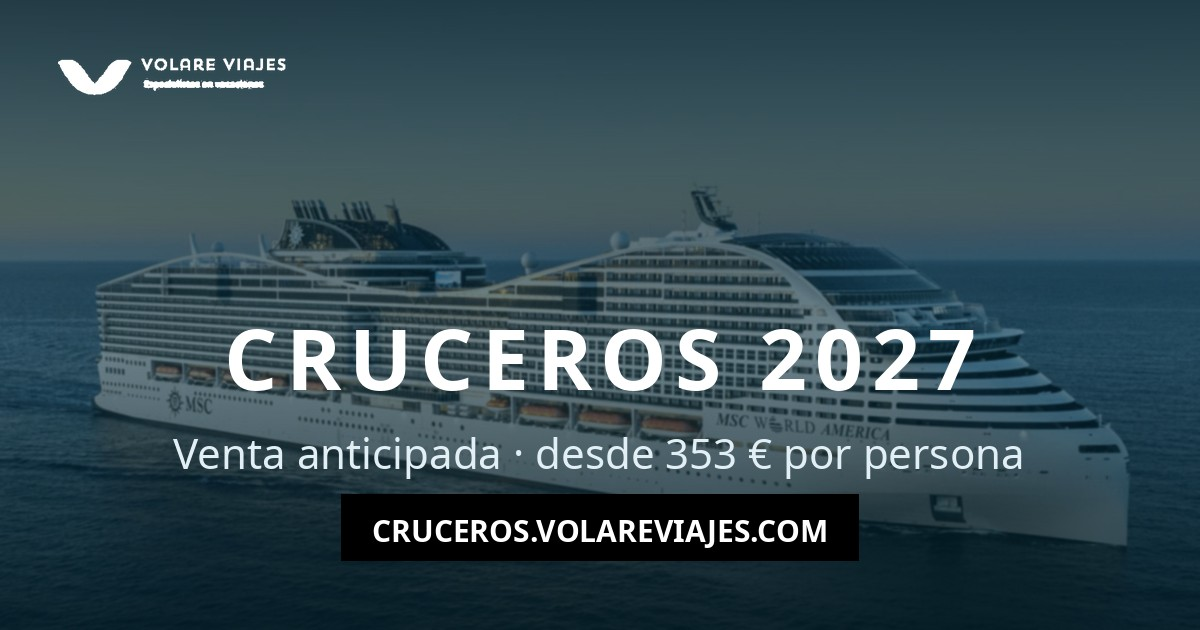
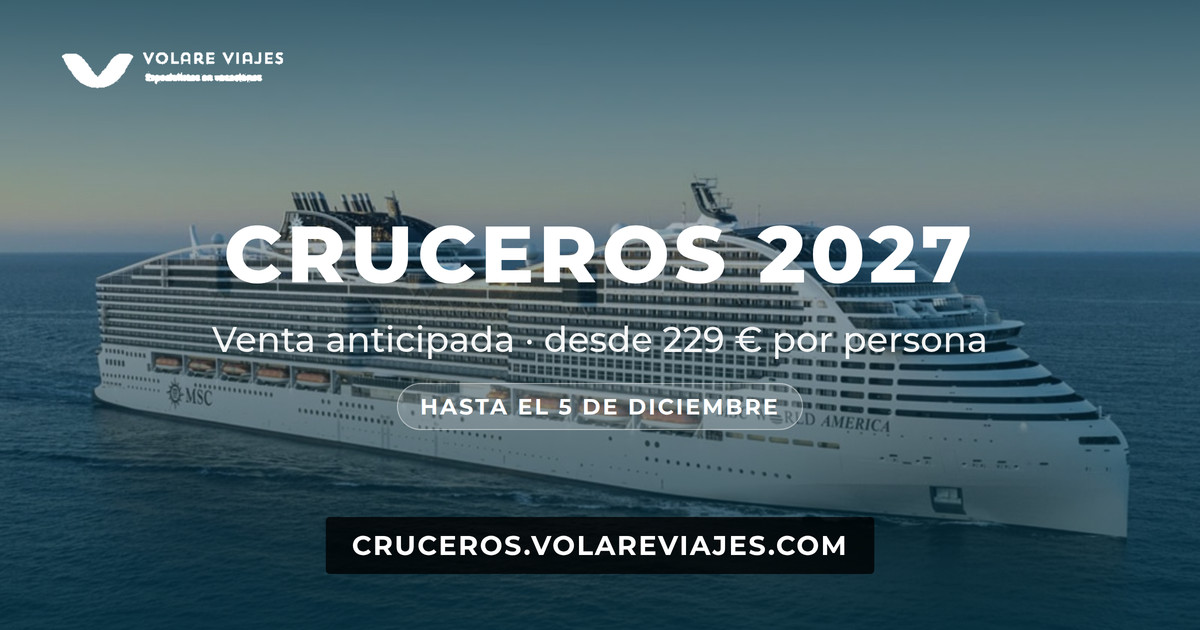
Añadir el crucero La música del mar (desde 229 €) y la fecha límite del 5 de diciembre

diff --git a/index.html b/index.html
@@ -35,10 +35,10 @@
       gtag("config", "G-KN19RN3MBS");
     </script>
 
-    <title>Cruceros 2027 desde 353 € | Venta anticipada — Volare Viajes</title>
+    <title>Cruceros 2027 desde 229 € | Venta anticipada — Volare Viajes</title>
     <meta
       name="description"
-      content="Venta anticipada de cruceros 2027: Mediterráneo, Canarias, Caribe y Norte de Europa desde 353 € por persona. Elige barco y ruta y consulta fechas y precios en el buscador."
+      content="Venta anticipada de cruceros 2027 hasta el 5 de diciembre: Mediterráneo, Canarias, Caribe y Norte de Europa desde 229 € por persona. Consulta fechas, barcos y precios en el buscador."
     />
     <meta
       name="keywords"
@@ -53,20 +53,20 @@
     <meta property="og:locale" content="es_ES" />
     <meta
       property="og:title"
-      content="Cruceros 2027 desde 353 € · Venta anticipada — Volare Viajes"
+      content="Cruceros 2027 desde 229 € · Venta anticipada — Volare Viajes"
     />
     <meta
       property="og:description"
-      content="Cruceros 2027 por el Mediterráneo, Canarias, el Caribe y el Norte de Europa desde 353 € por persona. Venta anticipada con asesoramiento personalizado 24/7."
+      content="Cruceros 2027 por el Mediterráneo, Canarias, el Caribe y el Norte de Europa desde 229 € por persona. Venta anticipada hasta el 5 de diciembre, con asesoramiento personalizado 24/7."
     />
     <meta name="twitter:card" content="summary_large_image" />
     <meta
       name="twitter:title"
-      content="Cruceros 2027 desde 353 € · Venta anticipada — Volare Viajes"
+      content="Cruceros 2027 desde 229 € · Venta anticipada — Volare Viajes"
     />
     <meta
       name="twitter:description"
-      content="Cruceros 2027 desde 353 € por persona. Venta anticipada con asesoramiento personalizado."
+      content="Cruceros 2027 desde 229 € por persona, hasta el 5 de diciembre. Venta anticipada con asesoramiento personalizado."
     />
 
     <link rel="icon" type="image/svg+xml" href="favicon.svg" />
@@ -82,7 +82,7 @@
     <meta property="og:image" content="https://cruceros.volareviajes.com/og-image.jpg" />
     <meta property="og:image:width" content="1200" />
     <meta property="og:image:height" content="630" />
-    <meta property="og:image:alt" content="Cruceros 2027 de Volare Viajes: venta anticipada desde 353 euros" />
+    <meta property="og:image:alt" content="Cruceros 2027 de Volare Viajes: venta anticipada desde 229 euros, hasta el 5 de diciembre" />
     <meta name="twitter:image" content="https://cruceros.volareviajes.com/og-image.jpg" />
     <script type="application/ld+json">
       {
@@ -198,7 +198,7 @@
               class="reveal mb-6 inline-flex items-center gap-2 rounded-full border border-white/25 bg-white/10 px-4 py-1.5 text-[11px] font-semibold uppercase tracking-[0.18em] text-white backdrop-blur"
             >
               <span class="h-1.5 w-1.5 rounded-full bg-teal-light" aria-hidden="true"></span>
-              Venta anticipada 2027
+              Venta anticipada 2027 · hasta el 5 de diciembre
             </p>
 
             <h1 class="display reveal text-white text-[clamp(2.25rem,5.4vw,4rem)]" data-delay="1">
@@ -211,7 +211,7 @@
               data-delay="2"
             >
               Cruceros 2027 por el Mediterráneo, las Islas Canarias, el Caribe y el Norte de
-              Europa <strong class="font-semibold text-white">desde 353 € por persona</strong>. Más
+              Europa <strong class="font-semibold text-white">desde 229 € por persona</strong>. Más
               de 25 años eligiendo barco, ruta y camarote para cada viajero: te decimos cuál encaja
               contigo antes de que reserves.
             </p>
@@ -246,6 +246,12 @@
               </a>
             </div>
 
+            <p class="reveal mt-8 max-w-[34rem] text-[0.9375rem] leading-relaxed text-white/85" data-delay="4">
+              <strong class="font-semibold text-white">La venta anticipada termina el 5 de diciembre.</strong>
+              Descuento de hasta 300 € reservando antes del 4 de noviembre y cambio de fecha sin coste
+              reservando antes del 10 de diciembre.
+            </p>
+
             <dl
               class="reveal mt-14 grid max-w-[38rem] grid-cols-2 gap-x-8 gap-y-6 border-t border-white/20 pt-8 sm:grid-cols-3"
               data-delay="4"
@@ -254,7 +260,7 @@
                 <dt class="text-[11px] font-semibold uppercase tracking-[0.16em] text-white/55">
                   Precios desde
                 </dt>
-                <dd class="price mt-1 text-2xl text-white">353 €</dd>
+                <dd class="price mt-1 text-2xl text-white">229 €</dd>
               </div>
               <div>
                 <dt class="text-[11px] font-semibold uppercase tracking-[0.16em] text-white/55">
@@ -311,7 +317,7 @@
           <div class="max-w-[46rem]">
             <p class="eyebrow">01 — Cruceros destacados</p>
             <h2 class="rule-title display mt-4 text-[clamp(1.75rem,3.4vw,2.6rem)]">
-              Seis cruceros que ya tienen fechas para 2027
+              Siete cruceros que ya tienen fechas para 2027
             </h2>
             <p class="mt-6 text-muted">
               Barcos y rutas que hemos seleccionado por su relación entre precio, itinerario y
@@ -321,6 +327,75 @@
           </div>
 
           <div class="mt-14 flex flex-col gap-10">
+            <!-- • La música del mar · la salida más económica de la venta anticipada -->
+            <article
+              class="card-cruise reveal grid overflow-hidden rounded-2xl border border-line bg-white shadow-card lg:grid-cols-[minmax(0,0.85fr)_minmax(0,1fr)]"
+            >
+              <img
+                src="img/crucero-costa-toscana.jpg"
+                alt="Barco Costa Toscana navegando por el Mediterráneo"
+                width="1200"
+                height="788"
+                loading="lazy"
+                class="h-56 w-full object-cover lg:h-full"
+              />
+              <div class="p-7 md:p-9">
+                <p class="label">Costa Cruceros · Costa Toscana · desde Barcelona</p>
+                <h3 class="display mt-2 text-2xl md:text-[1.75rem]">
+                  La música del mar
+                </h3>
+
+                <dl class="mt-6 grid grid-cols-2 gap-x-6 gap-y-4 sm:grid-cols-4">
+                  <div>
+                    <dt class="label">Noches</dt>
+                    <dd class="mt-1 text-sm font-semibold">8 días</dd>
+                  </div>
+                  <div>
+                    <dt class="label">Embarque</dt>
+                    <dd class="mt-1 text-sm font-semibold">Barcelona</dd>
+                  </div>
+                  <div>
+                    <dt class="label">Salidas · lunes</dt>
+                    <dd class="mt-1 text-sm font-semibold">Nov 26 – feb 27</dd>
+                  </div>
+                  <div>
+                    <dt class="label">Escalas</dt>
+                    <dd class="mt-1 text-sm font-semibold">5</dd>
+                  </div>
+                </dl>
+
+                <ol class="route mt-6 border-t border-line pt-5">
+                  <li class="is-embark">Barcelona</li>
+                  <li>Palma de Mallorca</li>
+                  <li>Palermo</li>
+                  <li>Roma</li>
+                  <li>Savona</li>
+                  <li>Marsella</li>
+                  <li>Barcelona</li>
+                </ol>
+
+                <div class="mt-7 flex flex-wrap items-end justify-between gap-4">
+                  <p class="text-sm text-muted">
+                    Desde
+                    <span class="price ml-1 text-2xl text-ink">229 €</span>
+                    <span class="ml-1 text-xs text-muted">/ persona</span>
+                  </p>
+                  <a
+                    href="https://www.volareviajes.com/cruisesshowcase/cruise/index/931917?utm_source=landing_cruceros&utm_medium=web&utm_campaign=cruceros2027_ventaanticipada&utm_content=ficha-la-musica-del-mar"
+                    data-cta="ficha-la-musica-del-mar"
+                    target="_blank"
+                    rel="noopener noreferrer"
+                    class="inline-flex items-center gap-2 rounded-full bg-teal px-5 py-2.5 text-sm font-semibold text-white transition-colors hover:bg-teal-dark"
+                  >
+                    Ver fechas y precios
+                    <svg width="14" height="14" viewBox="0 0 24 24" fill="none" aria-hidden="true">
+                      <path d="M5 12h14m-5-5 5 5-5 5" stroke="currentColor" stroke-width="2" stroke-linecap="round" stroke-linejoin="round" />
+                    </svg>
+                  </a>
+                </div>
+              </div>
+            </article>
+
             <!-- 1 -->
             <article
               class="card-cruise reveal grid overflow-hidden rounded-2xl border border-line bg-white shadow-card lg:grid-cols-[minmax(0,0.85fr)_minmax(0,1fr)]"
@@ -773,6 +848,15 @@
                 sin las categorías que la gente quiere.
               </p>
 
+              <p
+                class="mt-7 rounded-2xl text-sm leading-relaxed text-white/85"
+                style="border: 1px solid rgba(255, 255, 255, 0.22); background: rgba(255, 255, 255, 0.06); padding: 20px 22px"
+              >
+                <strong class="font-semibold text-white">La venta anticipada termina el 5 de diciembre.</strong>
+                Hasta el 4 de noviembre hay descuentos de hasta 300 € en salidas seleccionadas; hasta el
+                10 de diciembre puedes cambiar de destino y fecha sin coste.
+              </p>
+
               <div class="mt-10 flex flex-wrap gap-3">
                 <a
                   href="https://www.volareviajes.com/cruisesshowcase/?utm_source=landing_cruceros&utm_medium=web&utm_campaign=cruceros2027_ventaanticipada&utm_content=bloque-anticipada"
@@ -1143,7 +1227,7 @@
         "
       >
         <div class="mx-auto max-w-[1180px] px-6 text-center md:px-8">
-          <p class="eyebrow text-white/80">Venta anticipada 2027</p>
+          <p class="eyebrow text-white/80">Venta anticipada 2027 · hasta el 5 de diciembre</p>
           <h2 class="display mx-auto mt-4 max-w-[38rem] text-[clamp(1.75rem,3.6vw,2.75rem)] text-white">
             ¿Vemos qué crucero te encaja?
           </h2>
